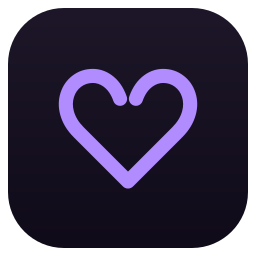
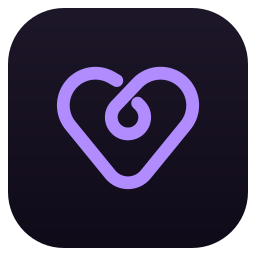
feat(brand): draw the loop heart as clean geometry in brand.py

diff --git a/tools/brand.py b/tools/brand.py
@@ -1,13 +1,19 @@
 #!/usr/bin/python3
-"""Regenerate maitri's brand assets from logo.txt and assets/brand/.
+"""Regenerate maitri's brand assets from logo.txt and the heart below.
 
   tools/brand.py           rebuild every derived asset in place
   tools/brand.py --check   fail if a derived asset is stale or the wrong shape
+
+The heart is one bold line drawn from circles and the lines tangent to them,
+so HEART holds its whole geometry: the two lobes, the rounded point, the loop
+and the two free ends. The outline is the exact offset of that centre line,
+which keeps heart.svg, heart-glyph.svg and icon.svg on one path.
 
 Needs rsvg-convert and ImageMagick (magick).
 """
 
 import hashlib
+import math
 import os
 import struct
 import subprocess
@@ -15,6 +21,19 @@ import sys
 import tempfile
 
 ROOT = os.path.dirname(os.path.dirname(os.path.abspath(__file__)))
+
+HEART = {
+    "stroke": 14.5,
+    "lobe": ((37, -32), 36.5),
+    "point": ((0, 30), 26),
+    "loop": ((0, -18.5), 19),
+    "start": (-150, 7),
+    "end": (-134, 4),
+}
+BRAND_COLOR = "#B08CFF"
+GLYPH_COLOR = "#000000"
+TILE_TOP, TILE_BOTTOM = "#1D1729", "#0F0A18"
+ICON_SCALE = 0.88
 
 CELL_W, CELL_H = 10, 20
 SHADOW_DX, SHADOW_DY = 5, 6
@@ -100,6 +119,145 @@ def theme_wordmark(name):
     return wordmark_svg(colors["accent"], mix(colors["accent"], colors["background"], 0.5))
 
 
+def fmt(value):
+    text = ("%.2f" % value).rstrip("0").rstrip(".")
+    return "0" if text == "-0" else text
+
+
+def pt(p):
+    return "%s %s" % (fmt(p[0]), fmt(p[1]))
+
+
+def unit(degrees):
+    return (math.cos(math.radians(degrees)), math.sin(math.radians(degrees)))
+
+
+def normal(d):
+    return (d[1], -d[0])
+
+
+def along(p, d, distance):
+    return (p[0] + distance * d[0], p[1] + distance * d[1])
+
+
+def touch(centre, radius, d):
+    return along(centre, normal(d), -radius)
+
+
+def tangent(c1, r1, c2, r2):
+    dx, dy = c2[0] - c1[0], c2[1] - c1[1]
+    d = unit(math.degrees(math.atan2(dy, dx) + math.asin((r2 - r1) / math.hypot(dx, dy))))
+    return touch(c1, r1, d), touch(c2, r2, d)
+
+
+def heart_line():
+    (lx, ly), lobe_r = HEART["lobe"]
+    left, right = (-lx, ly), (lx, ly)
+    point, point_r = HEART["point"]
+    loop, loop_r = HEART["loop"]
+    start_dir, end_dir = unit(HEART["start"][0]), unit(HEART["end"][0])
+
+    a = touch(left, lobe_r, start_dir)
+    b, c = tangent(left, lobe_r, point, point_r)
+    d, e = tangent(point, point_r, right, lobe_r)
+    f, g = tangent(right, lobe_r, loop, loop_r)
+    h = touch(loop, loop_r, end_dir)
+    return [
+        ("line", along(a, start_dir, -HEART["start"][1]), a),
+        ("arc", a, b, left, lobe_r),
+        ("line", b, c),
+        ("arc", c, d, point, point_r),
+        ("line", d, e),
+        ("arc", e, f, right, lobe_r),
+        ("line", f, g),
+        ("arc", g, h, loop, loop_r),
+        ("line", h, along(h, end_dir, HEART["end"][1])),
+    ]
+
+
+def direction(segment, at_end):
+    if segment[0] == "line":
+        (x0, y0), (x1, y1) = segment[1], segment[2]
+        length = math.hypot(x1 - x0, y1 - y0)
+        return ((x1 - x0) / length, (y1 - y0) / length)
+    _, a, b, centre, radius = segment
+    p = b if at_end else a
+    return ((p[1] - centre[1]) / radius, (centre[0] - p[0]) / radius)
+
+
+def large(segment):
+    _, a, b, centre, _ = segment
+    start = math.atan2(a[1] - centre[1], a[0] - centre[0])
+    stop = math.atan2(b[1] - centre[1], b[0] - centre[0])
+    return 1 if (start - stop) % (2 * math.pi) > math.pi else 0
+
+
+def side(segments, offset):
+    edges = []
+    for segment in segments:
+        a = along(segment[1], normal(direction(segment, False)), offset)
+        b = along(segment[2], normal(direction(segment, True)), offset)
+        radius = None if segment[0] == "line" else segment[4] - offset
+        edges.append((a, b, radius, 0 if segment[0] == "line" else large(segment)))
+    return edges
+
+
+def heart_path():
+    segments = heart_line()
+    half = HEART["stroke"] / 2
+    outer = side(segments, -half)
+    inner = [(b, a, radius, flag) for a, b, radius, flag in reversed(side(segments, half))]
+    cap = "A%s %s 0 0 0 " % (fmt(half), fmt(half))
+
+    commands = ["M" + pt(outer[0][0])]
+    for edges, sweep in ((outer, 0), (inner, 1)):
+        for _, b, radius, flag in edges:
+            if radius is None:
+                commands.append("L" + pt(b))
+            else:
+                commands.append("A%s %s 0 %d %d %s" % (fmt(radius), fmt(radius), flag, sweep, pt(b)))
+        commands.append(cap + pt(inner[0][0] if sweep == 0 else outer[0][0]))
+    return " ".join(commands) + " Z"
+
+
+def heart_box():
+    (lx, ly), lobe_r = HEART["lobe"]
+    point, point_r = HEART["point"]
+    half = HEART["stroke"] / 2
+    return (-(lx + lobe_r + half), ly - lobe_r - half, lx + lobe_r + half, point[1] + point_r + half)
+
+
+def heart_svg(fill):
+    return ('<svg xmlns="http://www.w3.org/2000/svg" viewBox="-100 -100 200 200">'
+            '<path fill="%s" d="%s"/></svg>\n' % (fill, heart_path()))
+
+
+def icon_svg():
+    x0, y0, x1, y1 = heart_box()
+    dy = 128 - ICON_SCALE * (y0 + y1) / 2
+    return (
+        '<svg xmlns="http://www.w3.org/2000/svg" viewBox="0 0 256 256">\n'
+        '  <defs>\n'
+        '    <linearGradient id="tile" x1="0" y1="0" x2="0" y2="256" gradientUnits="userSpaceOnUse">\n'
+        '      <stop offset="0" stop-color="%s"/>\n'
+        '      <stop offset="1" stop-color="%s"/>\n'
+        '    </linearGradient>\n'
+        '  </defs>\n'
+        '  <rect x="8" y="8" width="240" height="240" rx="56" fill="url(#tile)"/>\n'
+        '  <path transform="translate(128 %s) scale(%s)" fill="%s" d="%s"/>\n'
+        '</svg>\n'
+        % (TILE_TOP, TILE_BOTTOM, fmt(dy), fmt(ICON_SCALE), BRAND_COLOR, heart_path()))
+
+
+def sources():
+    return {
+        "assets/brand/heart.svg": heart_svg(BRAND_COLOR),
+        "assets/brand/heart-glyph.svg": heart_svg(GLYPH_COLOR),
+        "assets/brand/icon.svg": icon_svg(),
+        "logo.svg": theme_wordmark(DEFAULT_THEME),
+    }
+
+
 def render(svg, out, width):
     os.makedirs(os.path.dirname(out), exist_ok=True)
     with tempfile.NamedTemporaryFile("w", suffix=".svg", delete=False) as f:
@@ -131,8 +289,9 @@ def digest(file):
 
 
 def build():
-    with open(path("logo.svg"), "w", encoding="utf-8") as f:
-        f.write(theme_wordmark(DEFAULT_THEME))
+    for relative, svg in sources().items():
+        with open(path(relative), "w", encoding="utf-8") as f:
+            f.write(svg)
 
     for name in themes():
         unlock = path("themes", name, "unlock.png")
@@ -148,14 +307,15 @@ def build():
     preview(theme_colors(DEFAULT_THEME)["background"], DEFAULT_TEXT, default_logo,
             path("default/plymouth/preview-unlock.png"))
 
-    render(read_text("assets/brand/icon.svg"), path("icon.png"), ICON_SIZE)
-    render(read_text("assets/brand/heart.svg"), path("default/plymouth/logos/heart.png"), BOOT_HEART_SIZE)
+    render(icon_svg(), path("icon.png"), ICON_SIZE)
+    render(heart_svg(BRAND_COLOR), path("default/plymouth/logos/heart.png"), BOOT_HEART_SIZE)
 
 
 def check():
     problems = []
-    if read_text("logo.svg") != theme_wordmark(DEFAULT_THEME):
-        problems.append("logo.svg is stale; run tools/brand.py")
+    for relative, svg in sources().items():
+        if not os.path.isfile(path(relative)) or read_text(relative) != svg:
+            problems.append("%s is stale; run tools/brand.py" % relative)
 
     def expect(file, width, height=None):
         if not os.path.isfile(path(file)):
